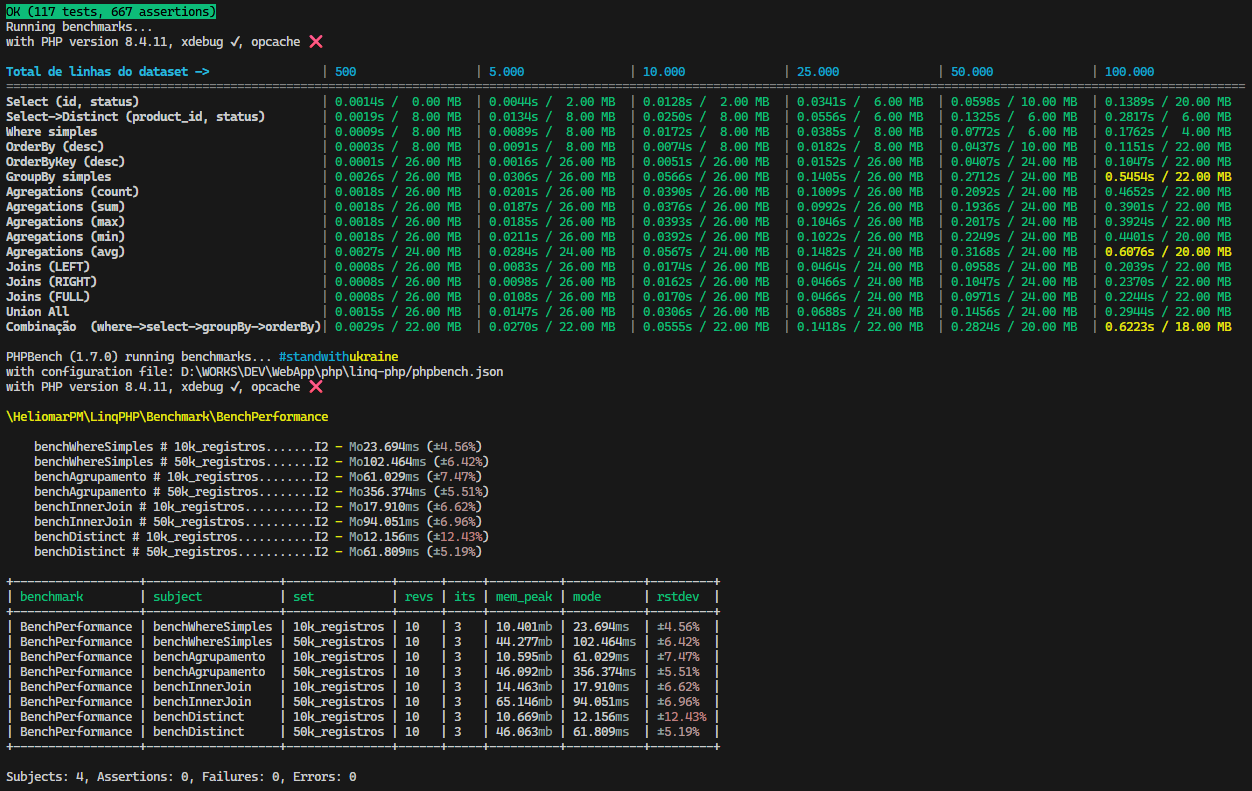
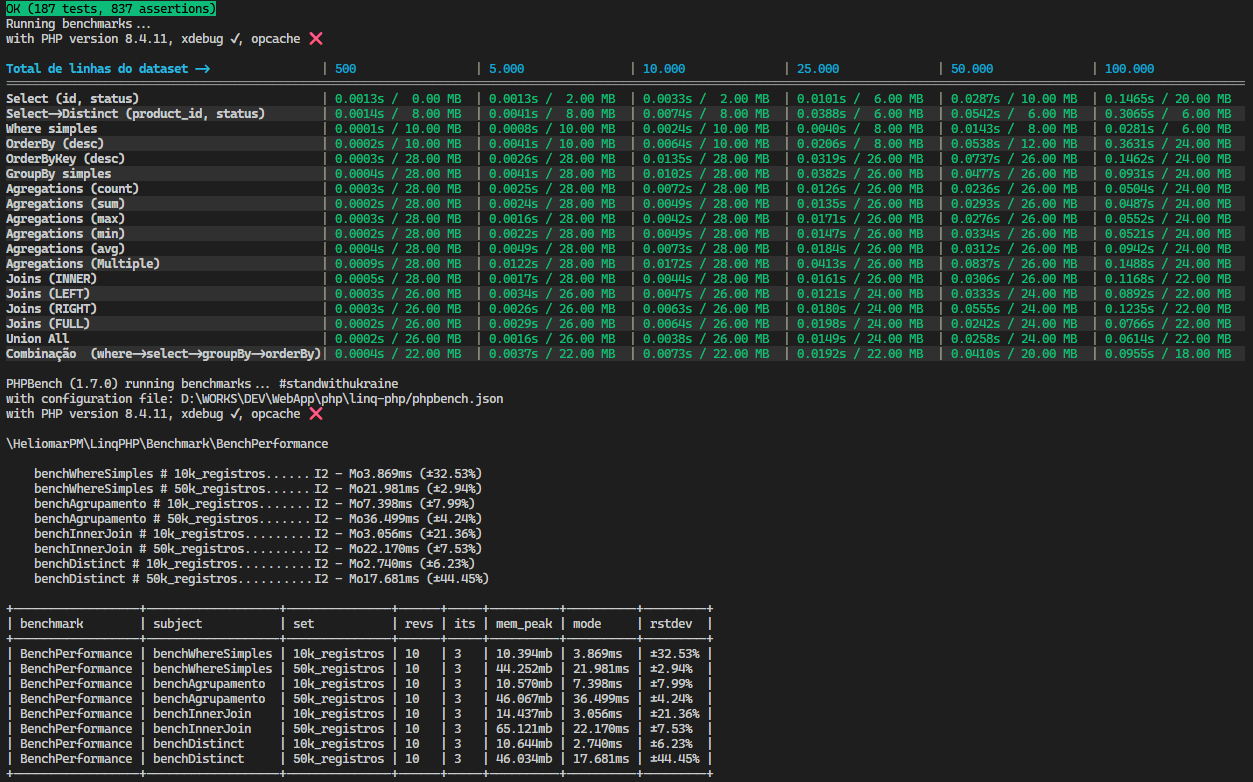
chore(benchmarks): ⚡ ajustar limites de tempo para cores de benchmark
- Otimiza o script de benchmark desativando o Xdebug
- Ajusta os limites de tempo para as cores de desempenho
- Garante uma medição mais precisa do benchmark
- Melhora a inicialização do servidor de demonstração
- Remove o impacto do Xdebug no desempenho

Changed region(s): [[0.0, 0.0, 0.9968, 1.0]]

diff --git a/benchmarks/BenchmarkRunner.php b/benchmarks/BenchmarkRunner.php
@@ -140,10 +140,10 @@ class BenchmarkRunner
     // 2. Método auxiliar para decidir a cor baseado na velocidade
     private function getColorForTime(float $seconds): string
     {
-        if ($seconds < 1) {
+        if ($seconds < 0.6) {
             return self::COLOR_GREEN;
         }
-        if ($seconds < 1.5) {
+        if ($seconds < 1.1) {
             return self::COLOR_YELLOW;
         }
         return self::COLOR_RED;
